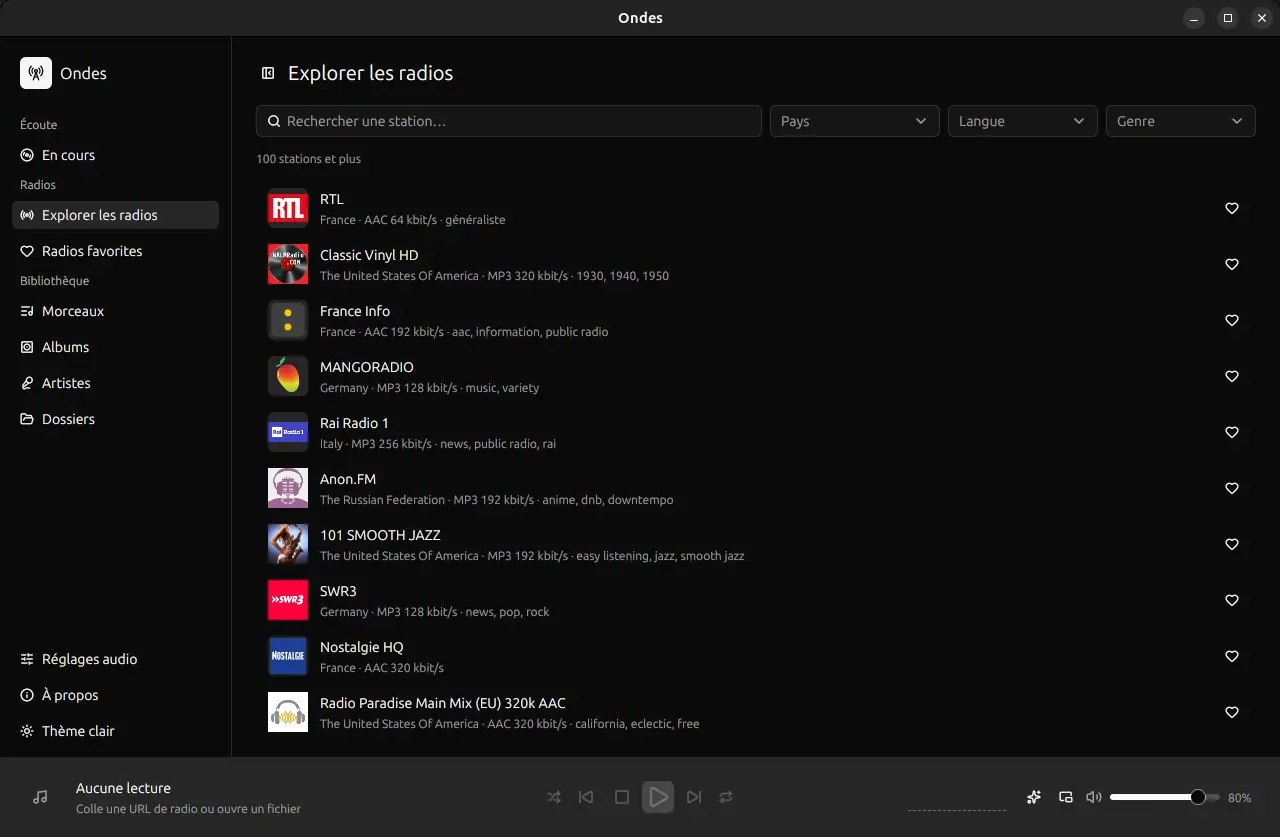
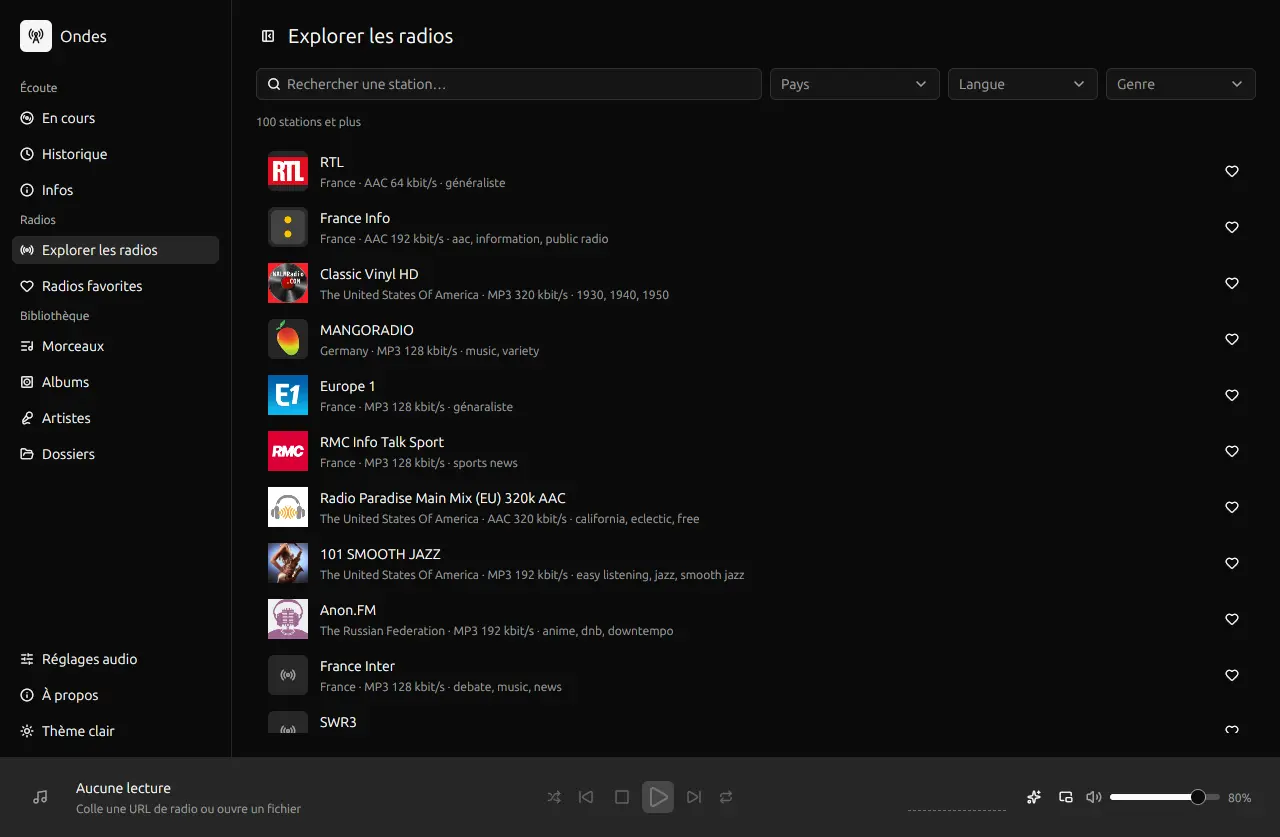
Site : fonctions et captures de la 0.7.0
- Deux fonctions de plus : page Infos (artiste, album, titre) et
  historique d'écoute ; titres de Radio France mentionnés.
- Captures : fiche artiste et historique (données de démo) ; page
  d'accueil refaite avec la barre latérale actuelle.
- Raccourcis : Infos (Ctrl+I), Historique (Ctrl+7).
- Pied de page : MusicBrainz et Wikipédia crédités.

diff --git a/site/index.html b/site/index.html
@@ -282,7 +282,7 @@
         <article class="feature">
           <div class="ic"><svg viewBox="0 0 24 24" fill="none" stroke="currentColor" stroke-width="2" stroke-linecap="round" stroke-linejoin="round"><path d="M19 14c1.49-1.46 3-3.21 3-5.5A5.5 5.5 0 0 0 16.5 3c-1.76 0-3 .5-4.5 2-1.5-1.5-2.74-2-4.5-2A5.5 5.5 0 0 0 2 8.5c0 2.3 1.5 4.05 3 5.5l7 7Z"/></svg></div>
           <h3>Favoris et titre en cours</h3>
-          <p>Garde tes stations préférées, ajoute un flux à la main ou importe une playlist <code>.m3u</code> / <code>.pls</code>. Le morceau diffusé s'affiche en direct.</p>
+          <p>Garde tes stations préférées, ajoute un flux à la main ou importe une playlist <code>.m3u</code> / <code>.pls</code>. Le morceau diffusé s'affiche en direct, y compris sur FIP et les radios de Radio France.</p>
         </article>
         <article class="feature">
           <div class="ic"><svg viewBox="0 0 24 24" fill="none" stroke="currentColor" stroke-width="2" stroke-linecap="round" stroke-linejoin="round"><circle cx="12" cy="12" r="10"/><circle cx="12" cy="12" r="2"/></svg></div>
@@ -310,6 +310,16 @@
           <p>Un clic (ou <kbd>Ctrl</kbd> <kbd>Maj</kbd> <kbd>R</kbd>) et le direct est copié tel quel dans ta musique, sans perte de qualité.</p>
         </article>
         <article class="feature">
+          <div class="ic"><svg viewBox="0 0 24 24" fill="none" stroke="currentColor" stroke-width="2" stroke-linecap="round" stroke-linejoin="round"><circle cx="12" cy="12" r="10"/><path d="M12 16v-4"/><path d="M12 8h.01"/></svg></div>
+          <h3>Qui joue, sur quel album ?</h3>
+          <p>La page Infos (<kbd>Ctrl</kbd> <kbd>I</kbd>) présente l'artiste, l'album ou le titre en cours : biographie, discographie, pistes et crédits, tirés de MusicBrainz et de Wikipédia.</p>
+        </article>
+        <article class="feature">
+          <div class="ic"><svg viewBox="0 0 24 24" fill="none" stroke="currentColor" stroke-width="2" stroke-linecap="round" stroke-linejoin="round"><path d="M3 12a9 9 0 1 0 9-9 9.75 9.75 0 0 0-6.74 2.74L3 8"/><path d="M3 3v5h5"/><path d="M12 7v5l4 2"/></svg></div>
+          <h3>Historique d'écoute</h3>
+          <p>Retrouve le morceau entendu ce matin à la radio : chaque titre écouté est noté avec son heure, et se relance d'un clic. L'historique reste sur ton ordinateur.</p>
+        </article>
+        <article class="feature">
           <div class="ic"><svg viewBox="0 0 24 24" fill="none" stroke="currentColor" stroke-width="2" stroke-linecap="round" stroke-linejoin="round"><rect width="20" height="16" x="2" y="4" rx="2"/><path d="M6 8h.01M10 8h.01M14 8h.01M18 8h.01M8 12h.01M12 12h.01M16 12h.01M7 16h10"/></svg></div>
           <h3>Fait pour le clavier</h3>
           <p>Une palette de commandes (<kbd>Ctrl</kbd> <kbd>K</kbd>) pour tout faire sans souris, et les touches multimédia du clavier qui pilotent la lecture.</p>
@@ -322,6 +332,14 @@
       </div>
 
       <div class="gallery">
+        <figure>
+          <img src="images/info-dark.webp" width="1280" height="837" loading="lazy" alt="La page « Infos » d'Ondes en thème sombre : la fiche d'Erik Satie, avec sa photo, ses dates, le début de sa biographie Wikipédia et les pochettes de sa discographie.">
+          <figcaption>La fiche d'un artiste : biographie et discographie.</figcaption>
+        </figure>
+        <figure>
+          <img src="images/history-light.webp" width="1280" height="837" loading="lazy" alt="La page « Historique » d'Ondes en thème clair : les titres écoutés aujourd'hui et hier, à la radio et dans la bibliothèque, avec leur heure.">
+          <figcaption>L'historique des titres écoutés, jour par jour.</figcaption>
+        </figure>
         <figure>
           <img src="images/now-dark.webp" width="1280" height="837" loading="lazy" alt="La page « En cours » d'Ondes en thème sombre : le visualiseur Nébuleuse, animé par la musique, avec le titre du morceau en dessous.">
           <figcaption>La page En cours et son visualiseur, à passer en plein écran.</figcaption>
@@ -399,6 +417,8 @@ chmod +x ondes_*_x86_64.AppImage && ./ondes_*_x86_64.AppImage</pre>
         <div class="key-row"><span>Écouter une URL / un fichier</span><span><kbd>Ctrl</kbd> <kbd>L</kbd> / <kbd>O</kbd></span></div>
         <div class="key-row"><span>Enregistrer le direct</span><span><kbd>Ctrl</kbd> <kbd>Maj</kbd> <kbd>R</kbd></span></div>
         <div class="key-row"><span>Page « En cours »</span><span><kbd>Ctrl</kbd> <kbd>0</kbd></span></div>
+        <div class="key-row"><span>Infos sur ce qui joue</span><span><kbd>Ctrl</kbd> <kbd>I</kbd></span></div>
+        <div class="key-row"><span>Historique d'écoute</span><span><kbd>Ctrl</kbd> <kbd>7</kbd></span></div>
         <div class="key-row"><span>Visualiseur en mode immersif</span><span><kbd>Ctrl</kbd> <kbd>Maj</kbd> <kbd>V</kbd></span></div>
         <div class="key-row"><span>Vue compacte</span><span><kbd>Ctrl</kbd> <kbd>Maj</kbd> <kbd>M</kbd></span></div>
         <div class="key-row"><span>Plier la barre latérale</span><span><kbd>Ctrl</kbd> <kbd>B</kbd></span></div>
@@ -421,7 +441,7 @@ chmod +x ondes_*_x86_64.AppImage && ./ondes_*_x86_64.AppImage</pre>
 <footer>
   <div class="wrap">
     <span>Ondes — logiciel libre, licence MIT ou Apache-2.0.</span>
-    <span>Annuaire des stations : <a href="https://www.radio-browser.info/">Radio Browser</a> · <a href="https://github.com/alr51/ondes">GitHub</a></span>
+    <span>Annuaire des stations : <a href="https://www.radio-browser.info/">Radio Browser</a> · Infos : <a href="https://musicbrainz.org/">MusicBrainz</a>, <a href="https://fr.wikipedia.org/">Wikipédia</a> · <a href="https://github.com/alr51/ondes">GitHub</a></span>
   </div>
 </footer>
 
